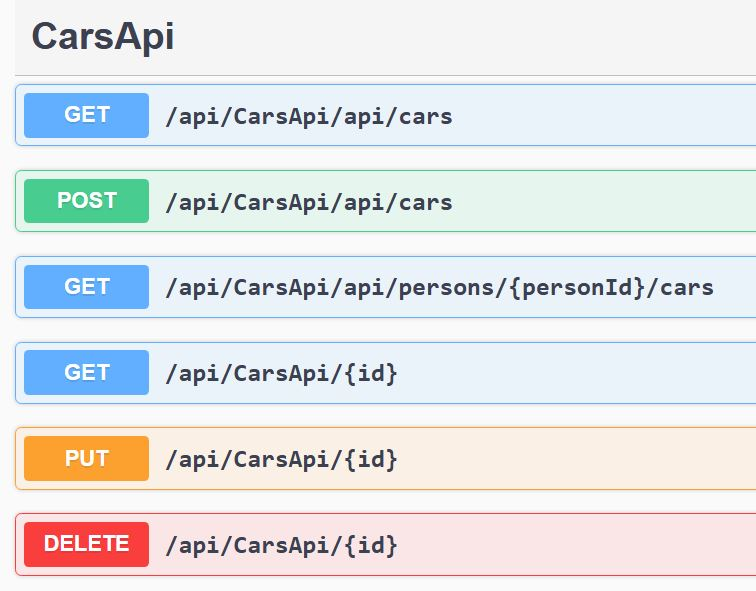
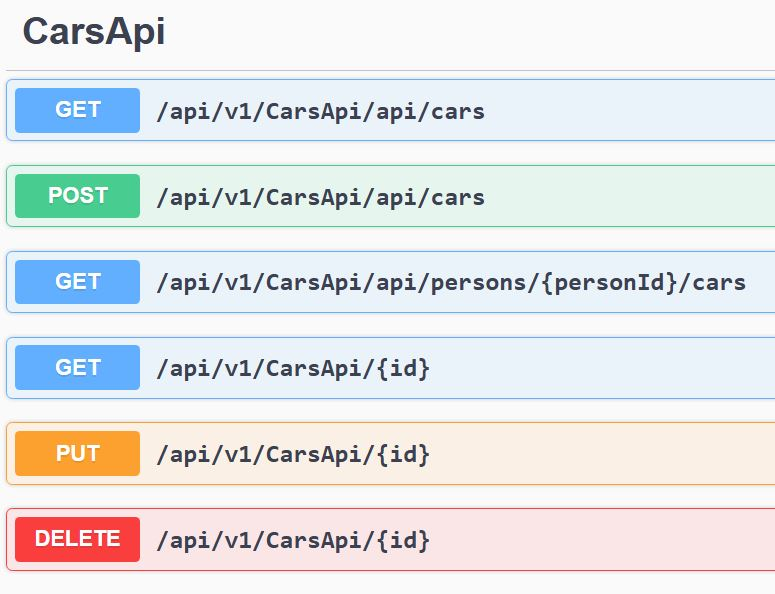
routing modernize

Changed region(s): [[0.0, 0.0305, 1.0, 0.9746]]

diff --git a/Program.cs b/Program.cs
@@ -50,15 +50,7 @@ if (!app.Environment.IsDevelopment())
     app.UseExceptionHandler("/Home/Error");
 }
 app.UseStaticFiles();
-app.UseRouting();
-app.UseEndpoints(endpoints =>
-{
-    endpoints.MapControllerRoute(
-        name: "default",
-        pattern: "{controller=Home}/{action=Index}/{id?}");
-
-    endpoints.MapControllers(); // Enables attribute routing for API controllers
-});
+app.MapControllers();
 app.UseAuthorization();
 
 app.MapControllerRoute(

diff --git a/Controllers/PurchasesApiController.cs b/Controllers/PurchasesApiController.cs
@@ -6,7 +6,7 @@ using Microsoft.EntityFrameworkCore;
 namespace CarAPI.ApiControllers
 {
     [ApiController]
-    [Route("api/[controller]")]
+    [Route("api/v1/[controller]")]
     public class PurchasesApiController : ControllerBase
     {
         private readonly AppDbContext _context;

diff --git a/Controllers/PersonApiController.cs b/Controllers/PersonApiController.cs
@@ -6,7 +6,7 @@ using Microsoft.EntityFrameworkCore;
 namespace CarAPI.ApiControllers
 {
     [ApiController]
-    [Route("api/[controller]")]
+    [Route("api/v1/[controller]")]
     public class PersonsApiController : ControllerBase
     {
         private readonly AppDbContext _context;

diff --git a/Controllers/CarsApiController.cs b/Controllers/CarsApiController.cs
@@ -11,7 +11,7 @@ using CarAPI.Models;
 namespace CarAPI.Controllers
 {
     [ApiController]
-    [Route("api/[controller]")]
+    [Route("api/v1/[controller]")]
     public class CarsApiController : ControllerBase
     {
         private readonly AppDbContext _context;
